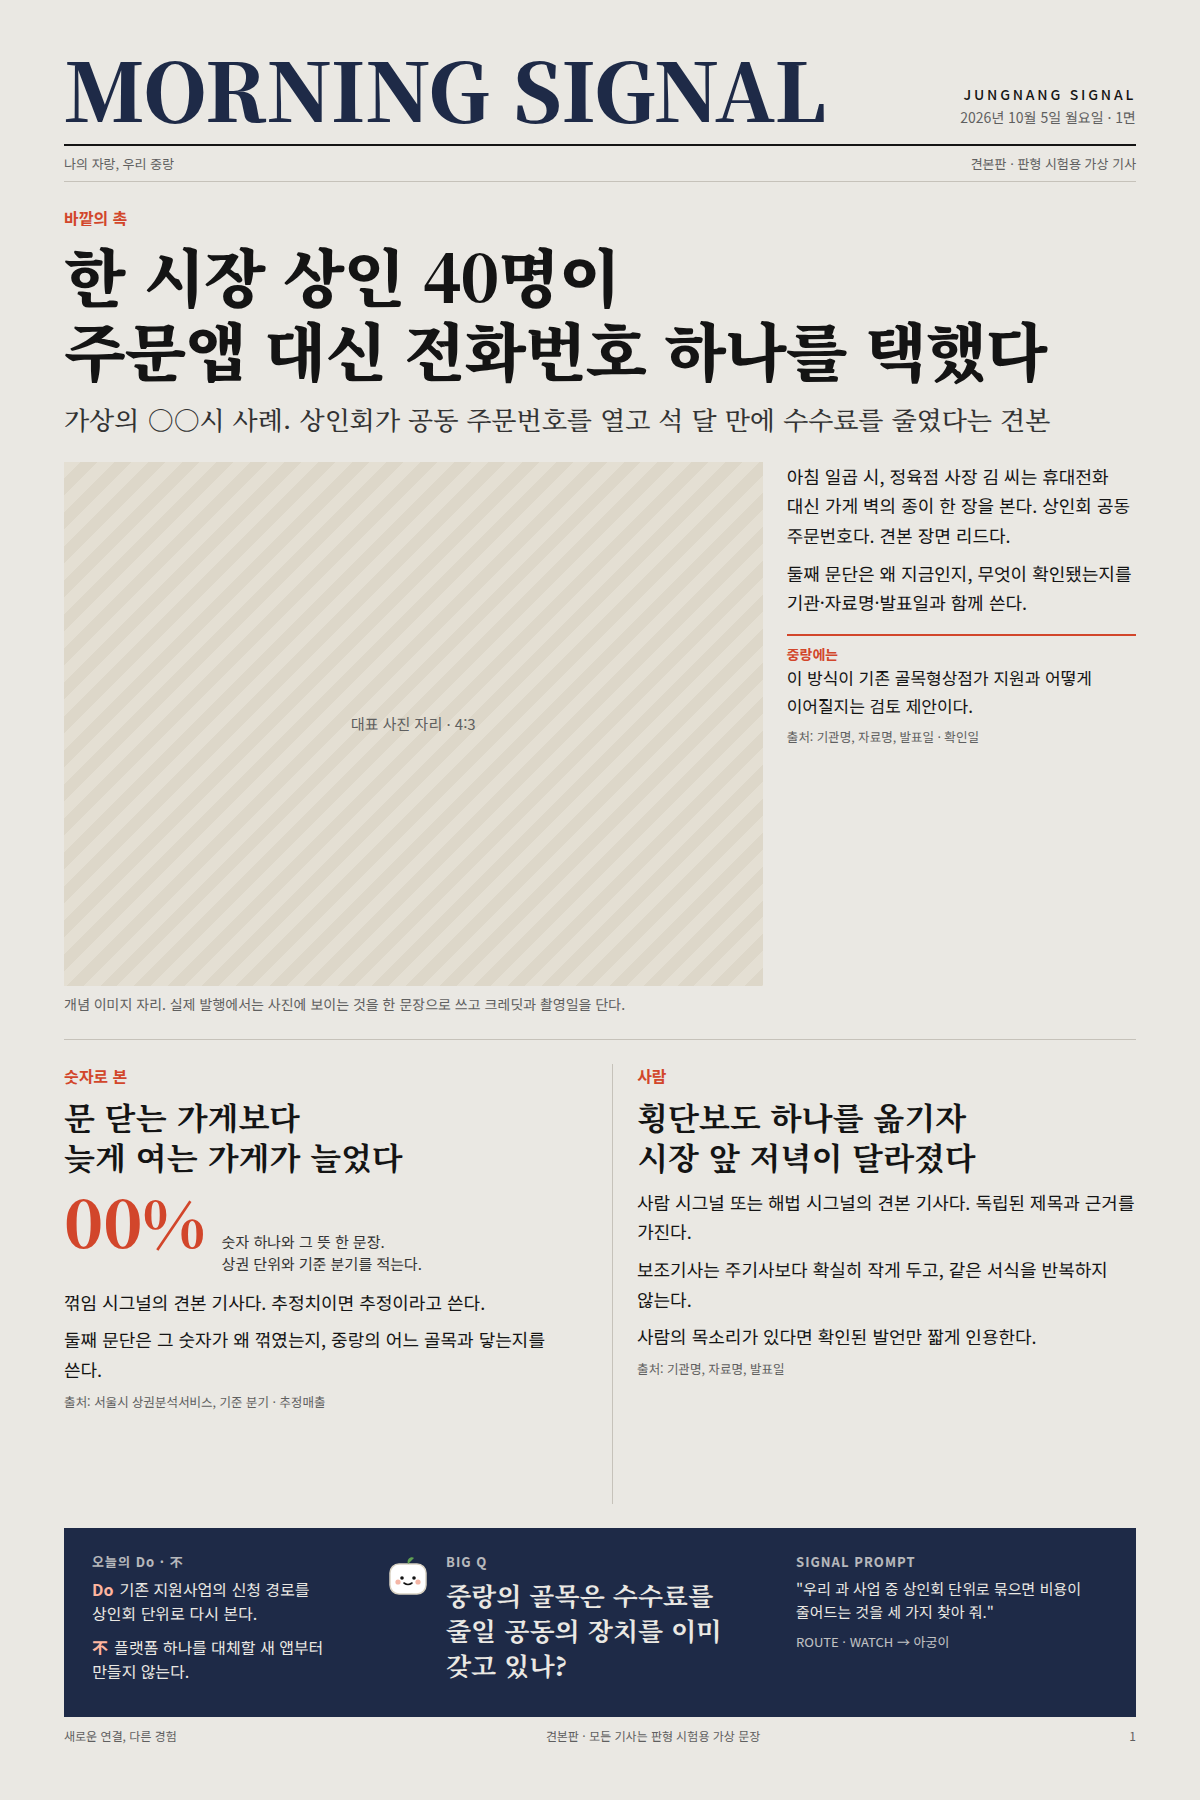
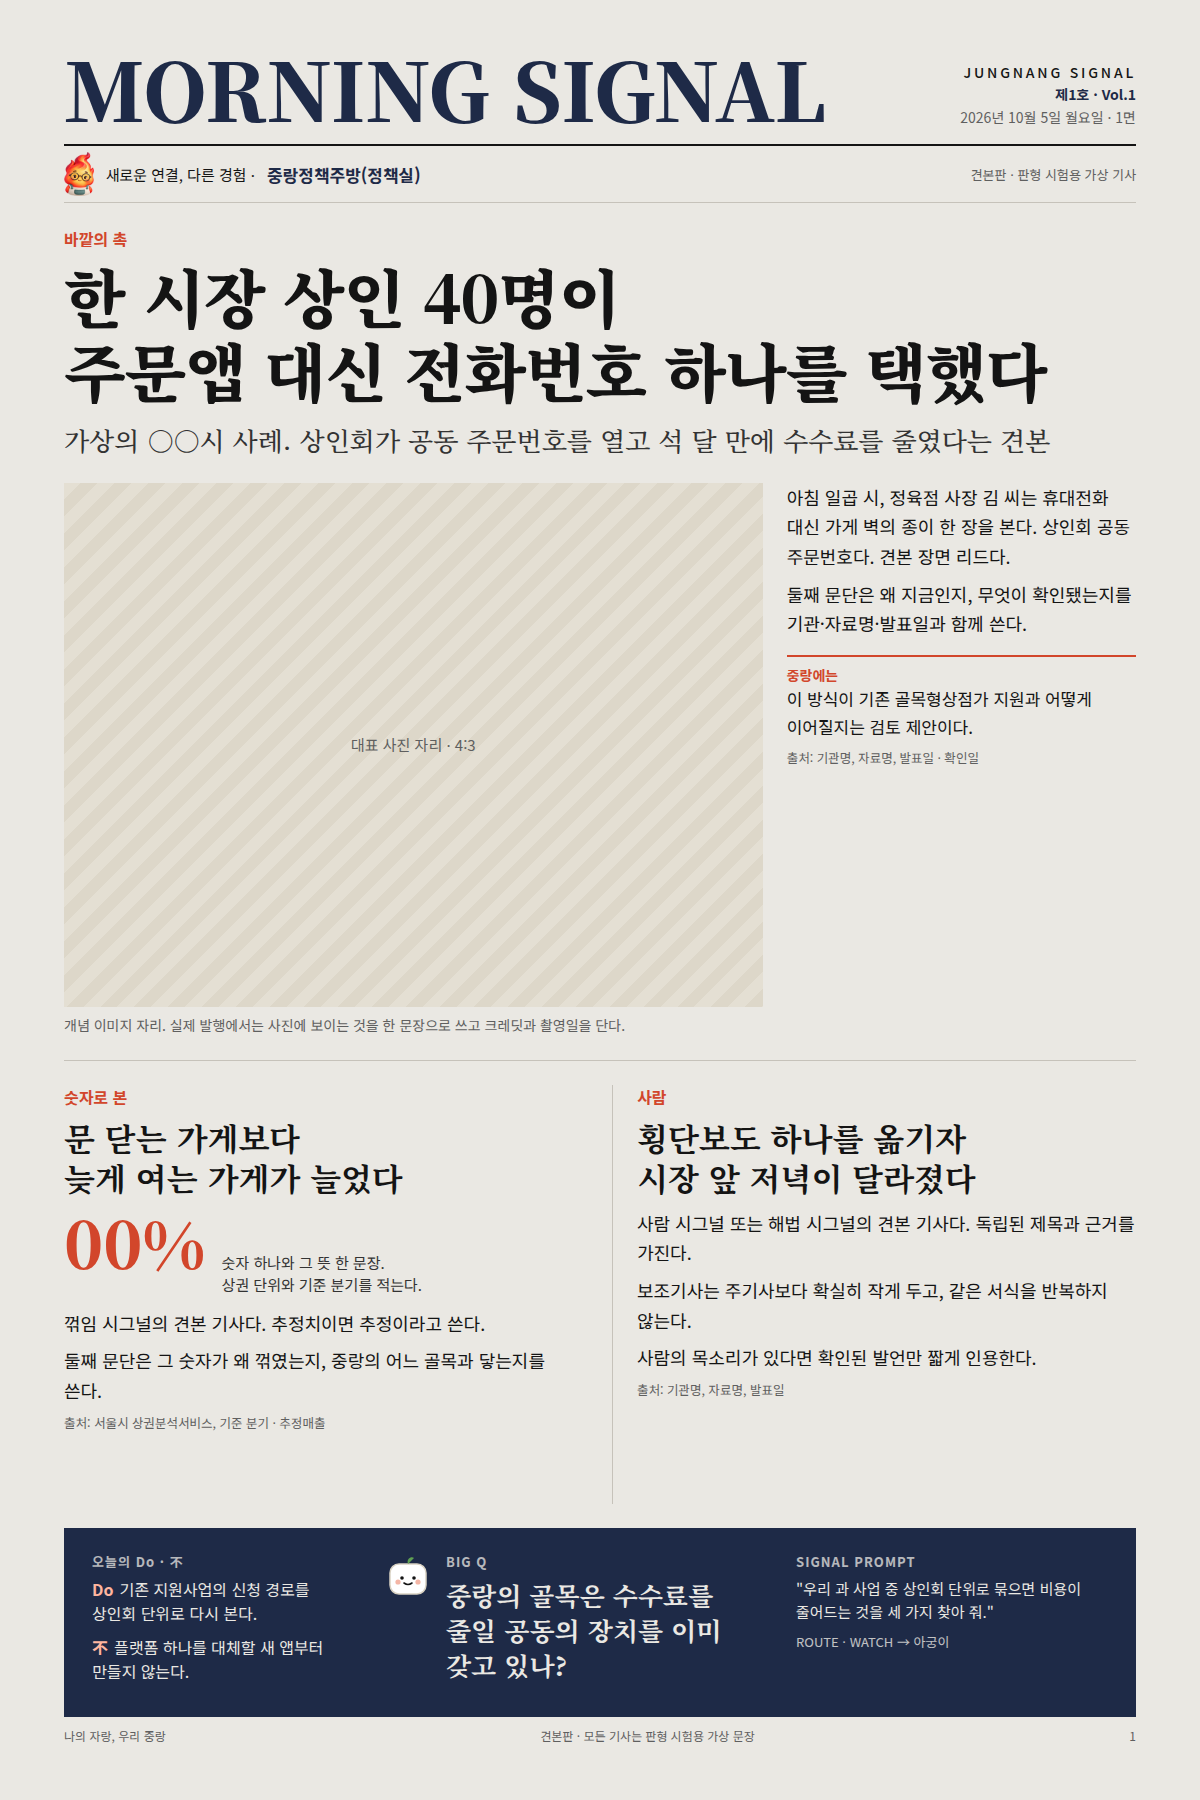
Fix publisher and add issue numbering to SIGNAL masthead
Publisher line '새로운 연결, 다른 경험 · 중랑정책주방(정책실)' with the
해찰이 logo sits under the masthead; issues carry 제N호 · Vol.N from a
per-medium index (MORNING starts at 제1호 on 2026-10-05).

Claude-Session: https://claude.ai/code/session_01NwNjjjWcNTNPPhr4FRQfyB

diff --git a/tabloid-template.html b/tabloid-template.html
@@ -40,8 +40,13 @@
     line-height: 1; color: var(--navy); letter-spacing: -0.01em; }
   .masthead .meta { text-align: right; font-size: 14px; line-height: 1.6; color: var(--gray); }
   .masthead .family { font-weight: 500; letter-spacing: 0.2em; color: var(--ink); }
-  .strap { display: flex; justify-content: space-between; font-size: 13px; color: var(--gray);
-    padding: 8px 0; border-bottom: 1px solid var(--rule); }
+  .strap { display: flex; justify-content: space-between; align-items: center; font-size: 13px; color: var(--gray);
+    padding: 6px 0; border-bottom: 1px solid var(--rule); }
+  .strap .pub { display: flex; align-items: center; gap: 12px; color: var(--ink); font-size: 15px; }
+  .strap .pub img { height: 44px; width: auto; }
+  .strap .pub b { font-weight: 700; font-size: 17px; color: var(--navy); }
+  .masthead .issue { font-weight: 700; color: var(--navy); }
+
 
   /* 공통 기사 부품 */
   .kicker { font-weight: 700; font-size: 16px; color: var(--signal); margin-bottom: 8px; }
@@ -94,11 +99,12 @@
   <div class="title" data-slot="제호">MORNING SIGNAL</div>
   <div class="meta">
     <div class="family">JUNGNANG SIGNAL</div>
+    <div class="issue" data-slot="호수">제1호 · Vol.1</div>
     <div data-slot="발행일">2026년 10월 5일 월요일 · 1면</div>
   </div>
 </header>
 <div class="strap">
-  <span>나의 자랑, 우리 중랑</span>
+  <span class="pub"><img src="assets/haechari-logo.png" alt="해찰이">새로운 연결, 다른 경험 · <b>중랑정책주방(정책실)</b></span>
   <span>견본판 · 판형 시험용 가상 기사</span>
 </div>
 
@@ -172,7 +178,7 @@
 </section>
 
 <footer class="folio">
-  <span>새로운 연결, 다른 경험</span>
+  <span>나의 자랑, 우리 중랑</span>
   <span>견본판 · 모든 기사는 판형 시험용 가상 문장</span>
   <span>1</span>
 </footer>

diff --git a/SKILL.md b/SKILL.md
@@ -115,7 +115,9 @@ KEEP=기존 의제, NEW=새 의제, WATCH=추가 확인. PILOT/EXPERIMENT=작은
 - 같은 면에서 대형 제호를 반복하지 않는다. 연속면은 작은 속간 표기와 면 번호로 연결한다.
 - ‘나의 자랑, 우리 중랑’은 구 슬로건, ‘새로운 연결, 다른 경험’은 정책 모토,
   ‘뜻과 땀으로 때를 짓는다’는 아궁이 철학이다. 역할을 섞거나 세 문구를 모두 주인공으로 만들지 않는다.
-- 발행일과 면 번호를 표시한다. 확인하지 못한 호수는 만들지 않는다.
+- 발행일과 면 번호를 표시한다.
+- 발행처는 ‘새로운 연결, 다른 경험 · 중랑정책주방(정책실)’로 고정한다. 해찰이 로고(`assets/haechari-logo.png`)와 함께 제호띠 아래 정보띠에 둔다(2026-10-05 사용자 지시).
+- 호수는 매체별로 `제N호 · Vol.N`으로 표시한다. MORNING SIGNAL은 2026-10-05를 제1호로 하고 발행할 때마다 1씩 더한다. 번호는 `/mnt/project-files/morning-signal/issue-index.md`의 마지막 번호에 1을 더해 정하고, 발행 뒤 같은 파일에 기록한다. 기록에 없는 번호를 짐작해 만들지 않는다. 다른 매체는 같은 방식으로 자기 기록 파일의 첫 발행을 제1호로 한다.
 
 ### 지면과 시선의 순서
 
@@ -166,7 +168,7 @@ WEEKLY는 1~2개 사안의 기획특집으로 별도 편집한다. 기사 수를
 
 - 신문다운 인상은 종이 질감이나 거대한 명조 제목만으로 만들지 않는다. 사건의 구체성, 기사별 비중, 원자료, 본문 단 구성, 날짜와 출처가 함께 작동하게 한다.
 - 제호는 개별 제호 중 가장 크게 하되 제호와 리드 제목이 본문·근거를 밀어내지 않게 한다. ‘가장 큰 제호’는 지면 전체를 제호가 지배하라는 뜻이 아니다.
-- 상단은 제호·발행일·면 번호·작은 패밀리 표기를 안정된 정보띠로 구성한다. 슬로건은 절제한다. 확인되지 않은 호수·바이라인·공식 발행기관·직함을 만들지 않는다.
+- 상단은 제호·발행일·면 번호·작은 패밀리 표기를 안정된 정보띠로 구성한다. 슬로건은 절제한다. 발행처와 호수는 위 제호와 브랜드 규칙을 따른다. 확인되지 않은 바이라인·직함을 만들지 않는다.
 - 제목은 확인된 사건·변화·긴장·구체적 질문을 담는다. ‘AI가 미래를 바꾼다’ 같은 선언만으로 주기사를 만들지 않는다. 은유적 큰 제목을 쓰면 부제·리드에서 누가/무엇을/언제/무슨 근거로를 즉시 설명한다.
 - 주기사를 제호 아래에서 바로 읽게 한다. 제목→구체적 부제→짧은 리드→근거 있는 본문→대표 이미지/자료의 관계를 설계한다. 대형 삽화를 지나야 첫 근거를 만나는 구성을 피한다.
 - 실제로 서로 다른 신호는 기사별 제목·분량·사진·근거를 다르게 배치한다. 같은 크기 3칸에 요약문을 넣는 구성은 주기사·보조기사 위계를 대신하지 못한다.

diff --git a/tabloid-design.md b/tabloid-design.md
@@ -83,7 +83,8 @@ SOPO는 기존 고유색을 유지하고 위 토큰의 구조만 따른다.
 
 | 부품 | 역할 | 쓰는 법 |
 |---|---|---|
-| 제호띠 | 개별 제호, 패밀리 표기, 발행일, 면 번호 | 한 줄 정보띠. 확인 못 한 호수는 쓰지 않는다 |
+| 제호띠 | 개별 제호, 패밀리 표기, 호수(제N호 · Vol.N), 발행일, 면 번호 | 호수는 발행 기록 파일에서 정한다 |
+| 발행처띠 | 해찰이 로고 + ‘새로운 연결, 다른 경험 · 중랑정책주방(정책실)’ | 제호띠 바로 아래 한 줄. 로고 높이 32~40px, 문구는 고정 |
 | 키커 | 헤드라인 위 짧은 분류어 | "바깥의 촉", "중랑에는", "숫자로 본" 등. 영어 코너명보다 우리말 우선 |
 | 헤드라인 | 확인된 사건·변화·긴장 | 아래 헤드라인 공식 |
 | 부제 | 헤드라인이 은유일 때 사실로 풀기 | 누가·무엇을·언제·무슨 근거로 |
